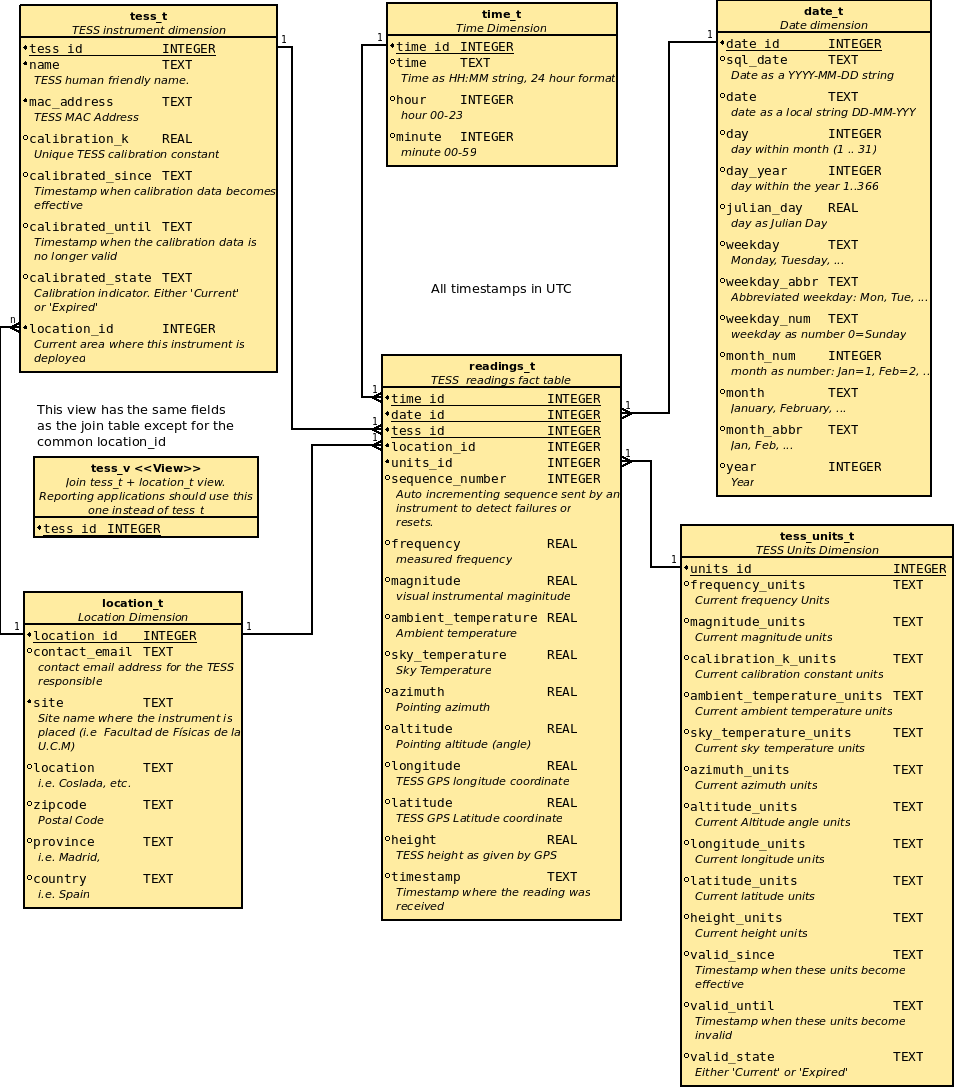
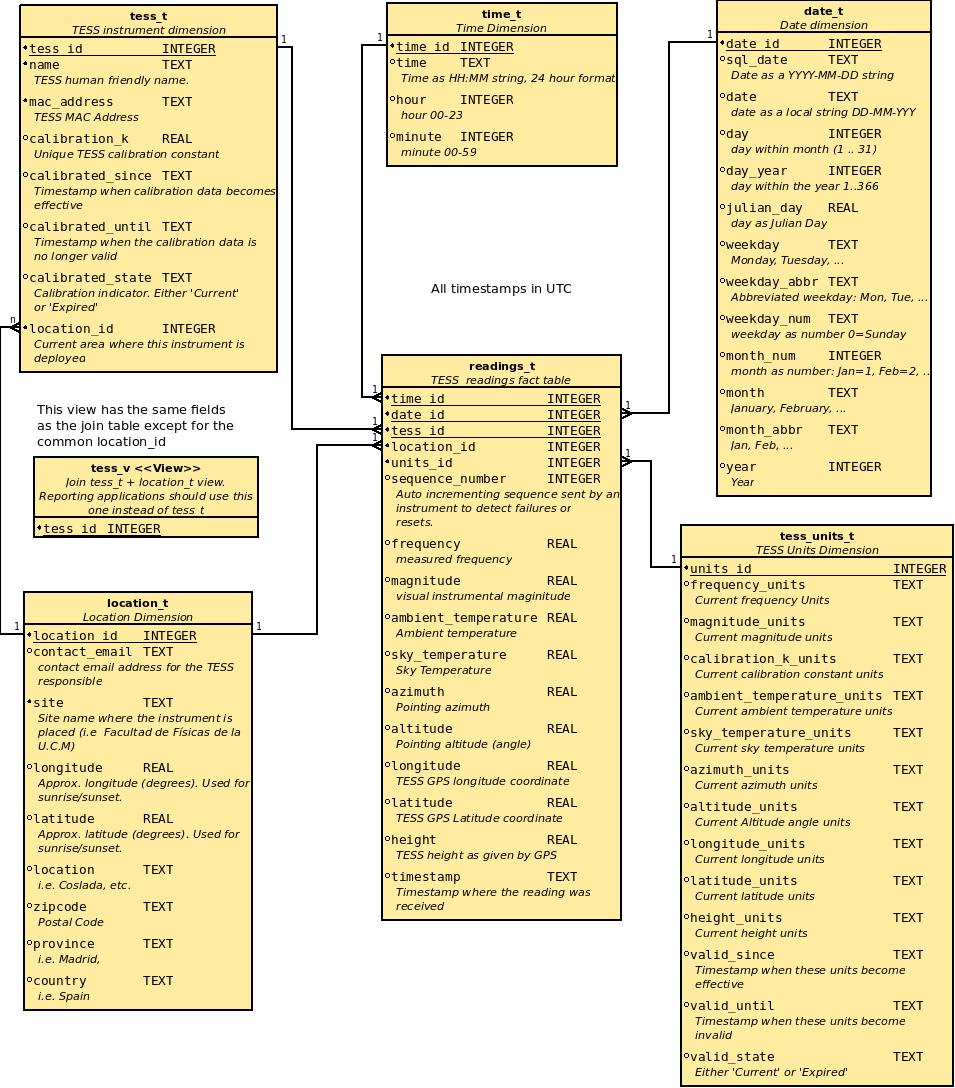
updated data model for location longitude/latitude

Changed region(s): [[0.0, 0.5312, 0.2733, 0.9375], [0.3037, 0.4062, 0.334, 0.5625], [0.0911, 0.5312, 0.1822, 0.5938]]

diff --git a/tessdb/sqlite3/location.py b/tessdb/sqlite3/location.py
@@ -28,6 +28,7 @@
 # -------------------
 
 import os
+from ephem import cities
 
 # ---------------
 # Twisted imports
@@ -54,6 +55,8 @@ DEFAULT_LOCATION = [
         "location_id"   : -1, 
         "contact_email" : utils.UNKNOWN, 
         "site"          : utils.UNKNOWN, 
+        "longitude"     : utils.UNKNOWN, 
+        "latitude"      : utils.UNKNOWN, 
         "zipcode"       : utils.UNKNOWN, 
         "location"      : utils.UNKNOWN, 
         "province"      : utils.UNKNOWN, 
@@ -78,6 +81,8 @@ def _populateRepl(transaction, rows):
             location_id,
             contact_email,
             site,
+            longitude,
+            latitude,
             zipcode,
             location,
             province,
@@ -85,6 +90,8 @@ def _populateRepl(transaction, rows):
         ) VALUES (
             :location_id,
             :contact_email,
+            :longitude,
+            :latitude,
             :site,
             :zipcode,
             :location,
@@ -95,10 +102,12 @@ def _populateRepl(transaction, rows):
 def _populateIgn(transaction, rows):
     '''Dimension initial data loading (ignore flavour)'''
     transaction.executemany(
-        '''INSERT OR REPLACE INTO location_t (
+        '''INSERT OR IGNORE INTO location_t (
             location_id,
             contact_email,
             site,
+            longitude,
+            latitude,
             zipcode,
             location,
             province,
@@ -107,6 +116,8 @@ def _populateIgn(transaction, rows):
             :location_id,
             :contact_email,
             :site,
+            :longitude,
+            :latitude,
             :zipcode,
             :location,
             :province,
@@ -143,6 +154,8 @@ class Location(Table):
             location_id             INTEGER PRIMARY KEY,
             contact_email           TEXT,
             site                    TEXT,
+            longitude               REAL,
+            latitude                REAL,
             zipcode                 TEXT,
             location                TEXT,
             province                TEXT,
